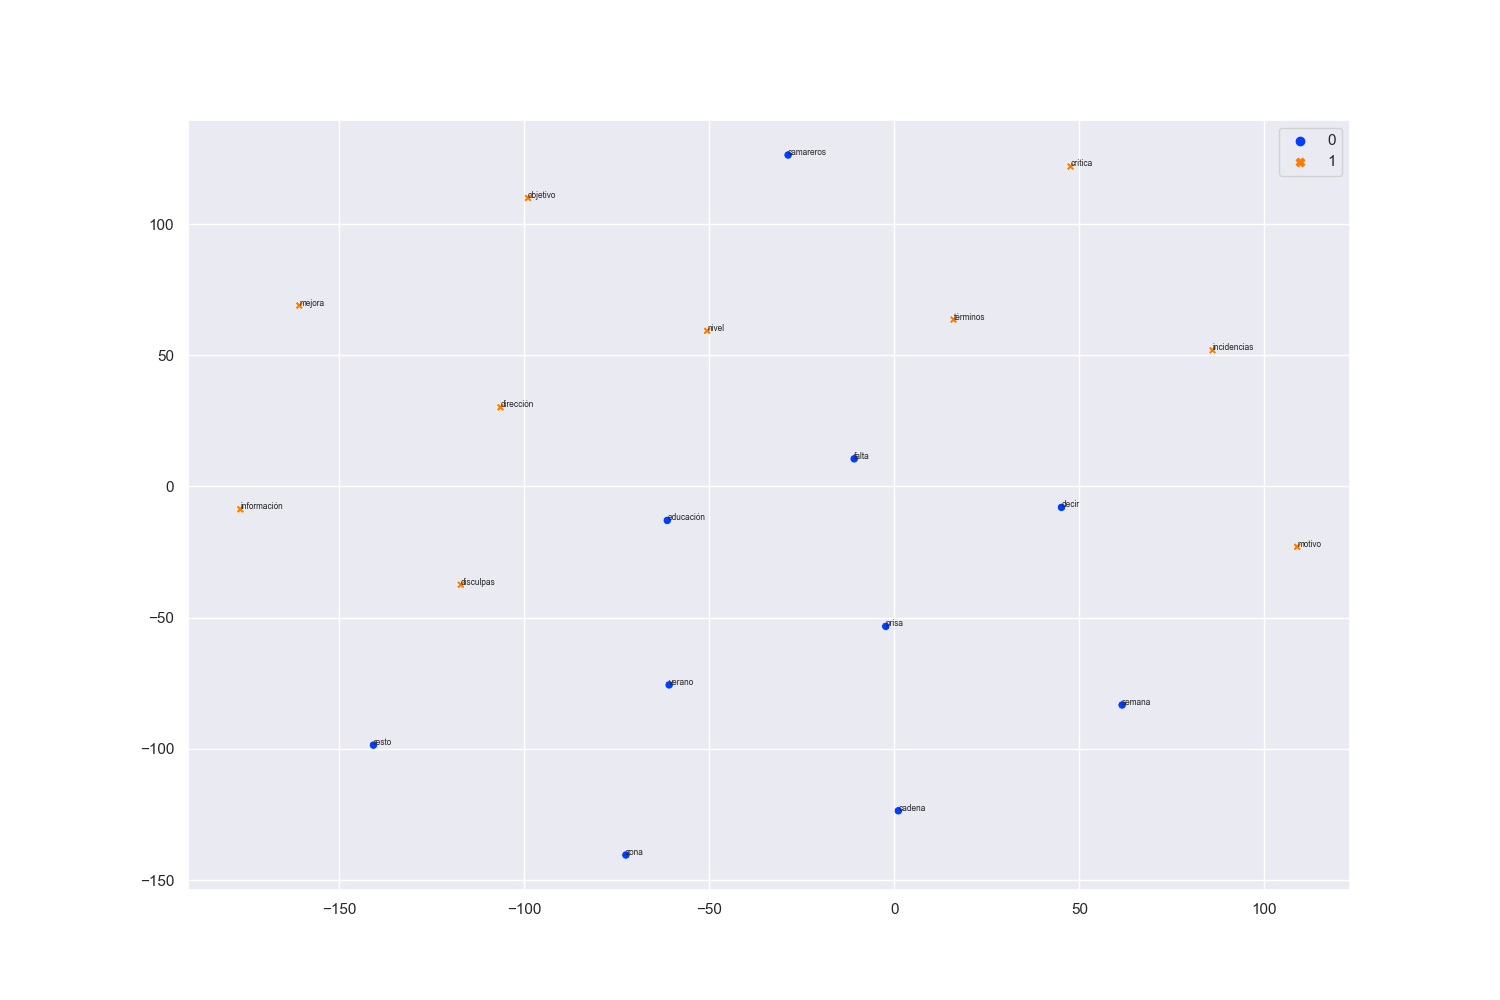
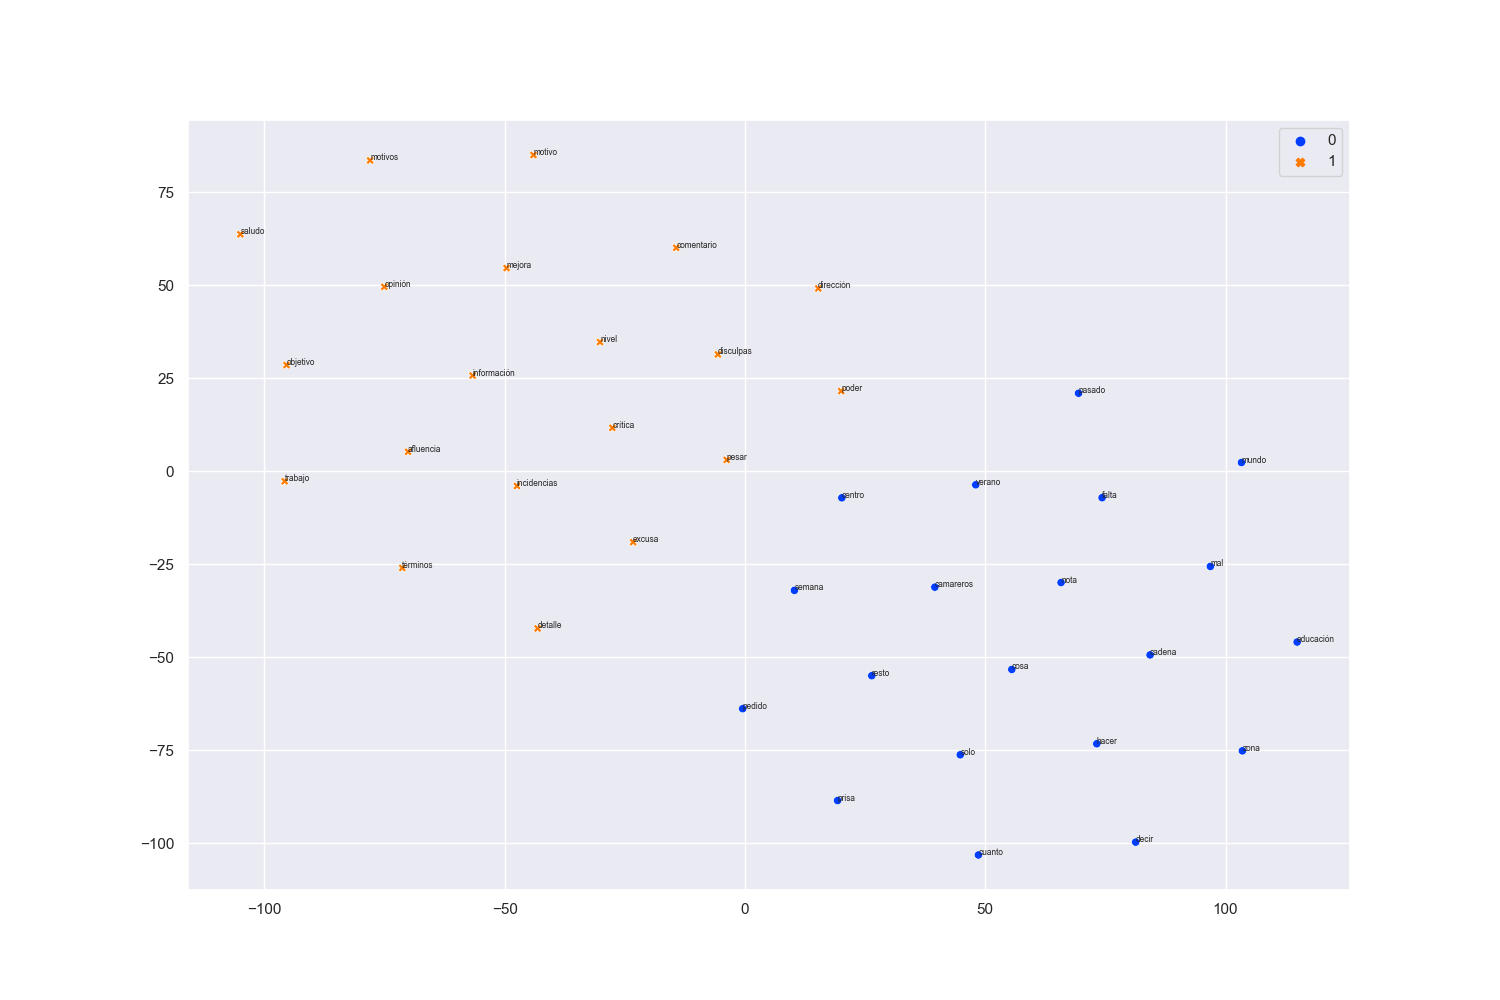
Recuperadas las 20 palabras más proximas

diff --git a/utils.py b/utils.py
@@ -77,12 +77,12 @@ def train_gmm_model(w2v_model, nouns, model_path):
             clustering_results[model_name] = gmm
         aic_bic_results[model_name] = [gmm.aic(embedding_corpus), gmm.bic(embedding_corpus)]
         closest_idx, _ = pairwise_distances_argmin_min(gmm.means_, embedding_corpus)
-        closest[model_name] = get_top_10_nearest_points(gmm, w2v_model, list(corpus))
+        closest[model_name] = get_top_20_nearest_points(gmm, w2v_model, list(corpus))
     return clustering_results, aic_bic_results, closest
 
 
-def get_top_10_nearest_points(gmm_model, w2v_model, corpus):
-    top_n = 10
+def get_top_20_nearest_points(gmm_model, w2v_model, corpus):
+    top_n = 20
     w, h = top_n, len(gmm_model.means_)
     top_10 = [[0 for x in range(w)] for y in range(h)]
     for n in range(w):
